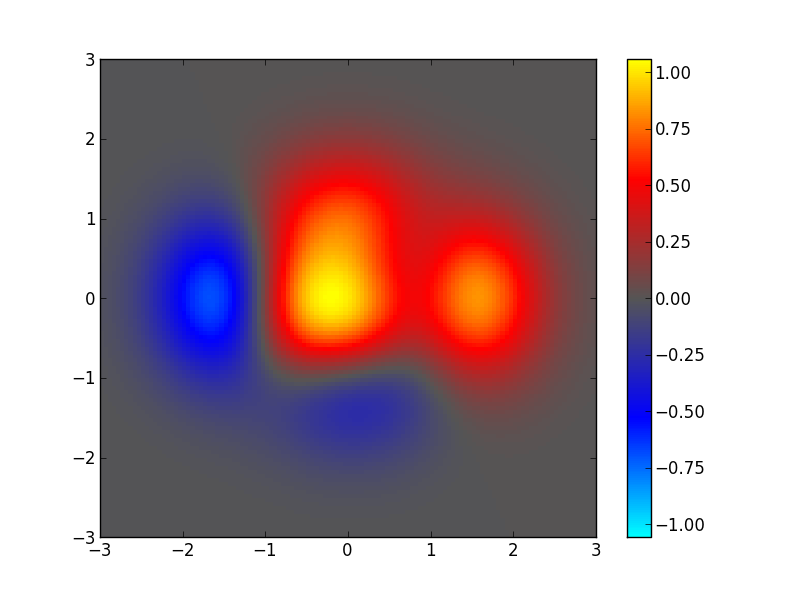
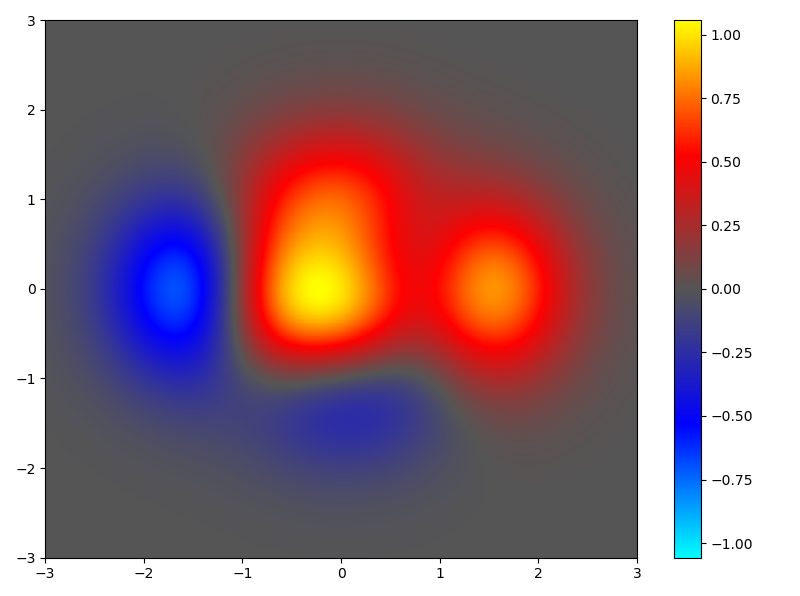
Increase resolution and size of example image

diff --git a/bipolar.py b/bipolar.py
@@ -130,15 +130,17 @@ if __name__ == "__main__":
         return (1 - x/2 + x**5 + y**3) * np.exp(-x**2 - y**2)
 
     # Make these smaller to increase the resolution
-    dx, dy = 0.05, 0.05
+    dx, dy = 0.02, 0.02
+    plt.figure(figsize=(8, 6))
 
     x = np.arange(-3.0, 3.0001, dx)
     y = np.arange(-3.0, 3.0001, dy)
     X, Y = np.meshgrid(x, y)
 
     Z = func3(X, Y)
-    plt.pcolor(X, Y, Z, cmap=bipolar(neutral=1./3, interp='linear'),
-               vmax=abs(Z).max(), vmin=-abs(Z).max())
+    cmap = bipolar(neutral=1/3, interp='linear', lutsize=2048)
+    plt.pcolor(X, Y, Z, cmap=cmap, vmax=abs(Z).max(), vmin=-abs(Z).max())
     plt.colorbar()
     plt.axis([-3, 3, -3, 3])
+    plt.tight_layout()
     plt.show()
